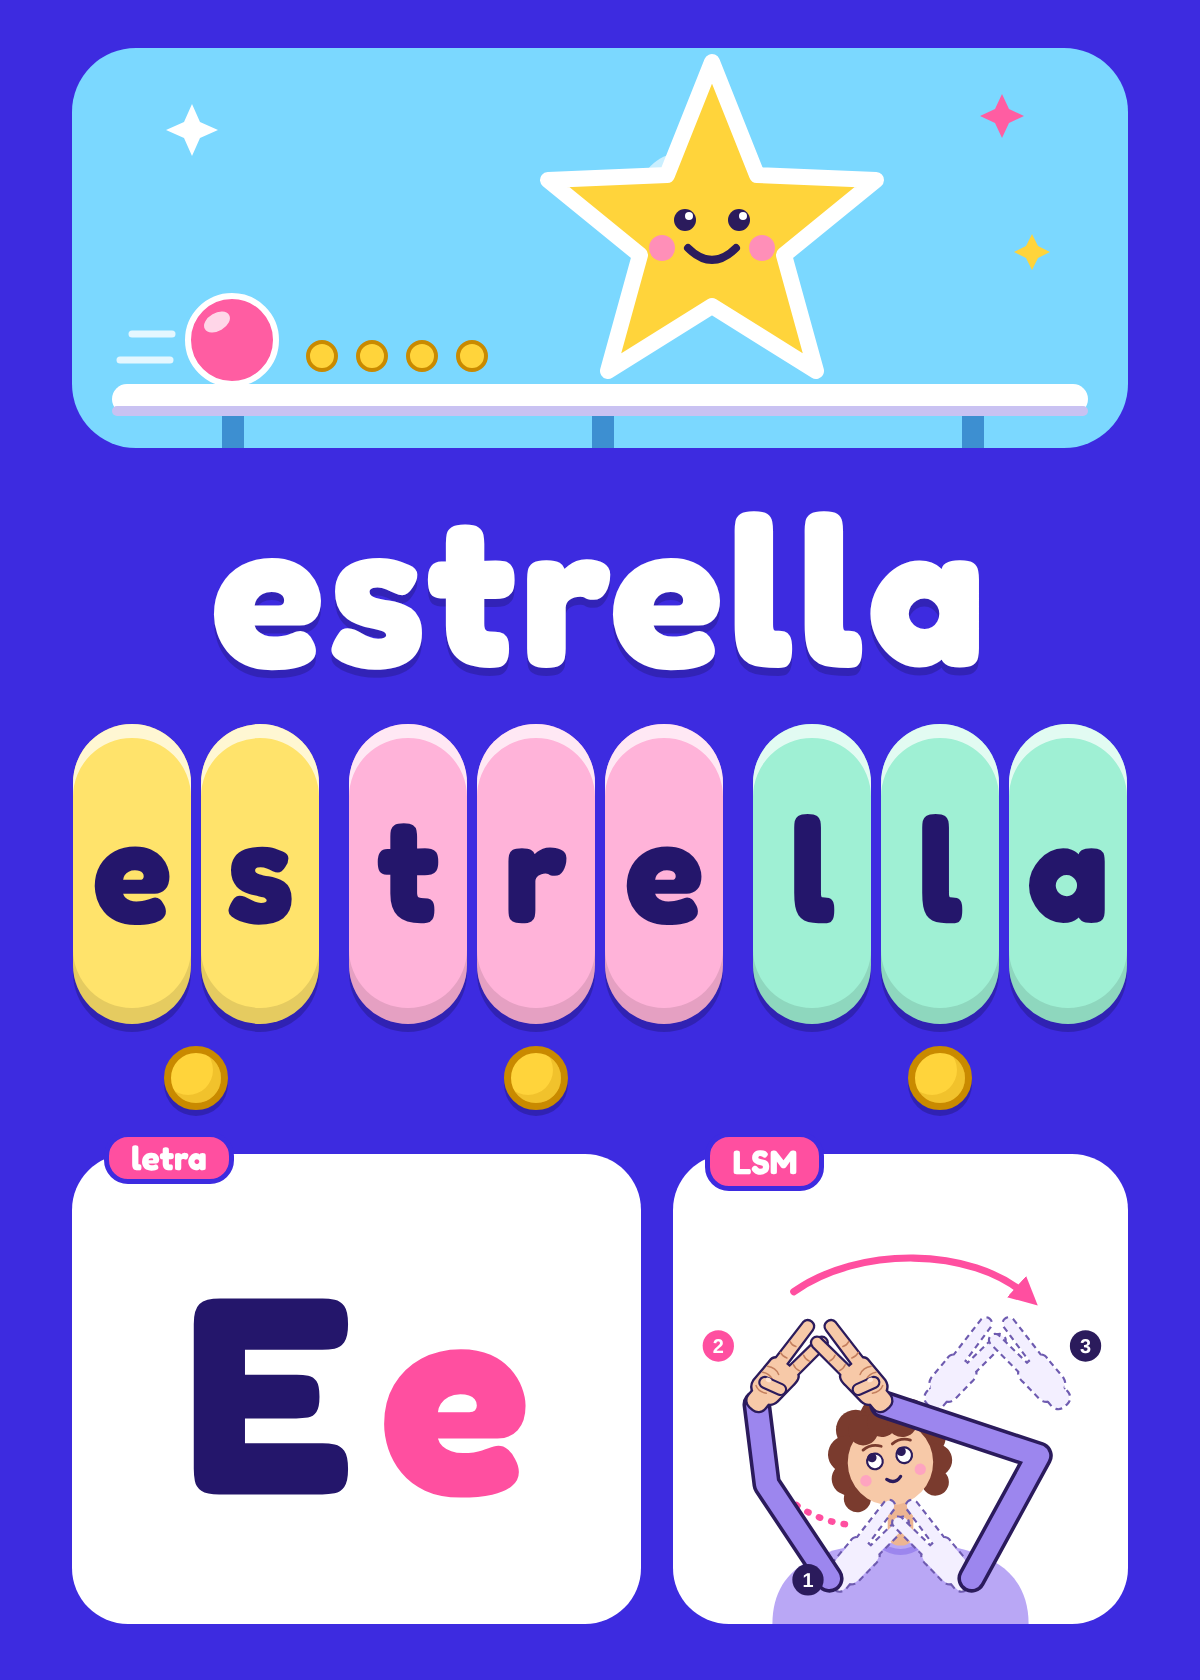
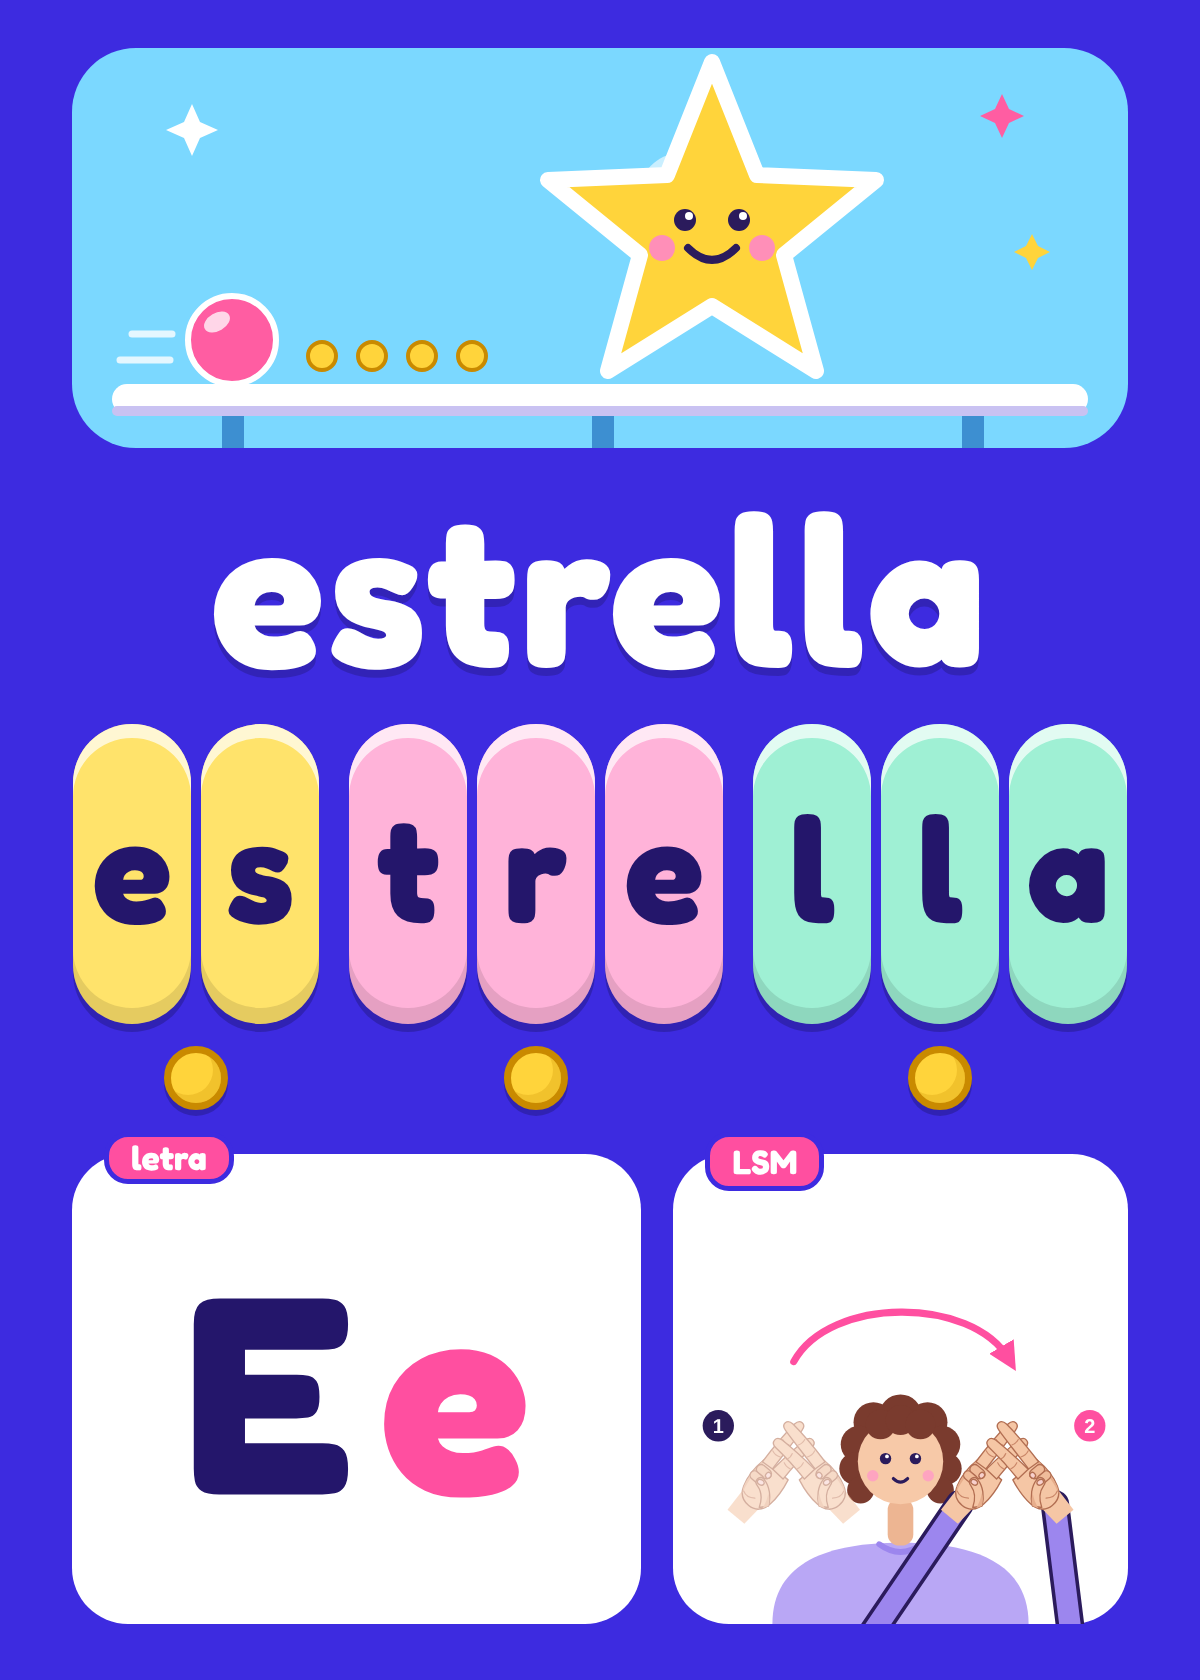
Seña estrella: manos realistas y recorrido de derecha a izquierda por encima de la cabeza
Claude-Session: https://claude.ai/code/session_015Bpbc8EAm3Wz5jihEE32WP

Changed region(s): [[0.5858, 0.7429, 0.925, 0.9905]]

diff --git a/CLAUDE.md b/CLAUDE.md
@@ -45,7 +45,7 @@ Este repositorio guarda tarjetas para que Valeria aprenda el **código escrito**
 6. **Fichas por sílaba**, tipo squishy: redondas, con brillo arriba y sombra abajo. Cada sílaba tiene su color y hay más espacio entre sílabas. **Debajo de cada sílaba va una moneda**: se toca o se aplaude una vez por sílaba al pronunciarla, como si se juntaran monedas en sus juegos. Separa las sílabas correctamente en español.
 7. **Panel "letra"**: la letra inicial en mayúscula y en minúscula, grande, para que reconozca la letra.
 8. **Panel "LSM"**: pequeño, abajo a la derecha. **No inventes la forma de una seña**: dibújala solo a partir de las fotos o dibujos que mande el usuario (normalmente una foto por movimiento). Si no hay referencia, deja `"sena"` fuera del JSON y aparece "seña pendiente".
-   - Dibújala en SVG como `senas/<palabra>.svg` (viewBox 600 × 540), con el estilo de `senas/estrella.svg`: persona tierna con cabello rizado, ropa lila, cara sonriente y manos color piel con contorno oscuro.
+   - Dibújala en SVG como `senas/<palabra>.svg` (viewBox 600 × 540), con el estilo de `senas/estrella.svg`: persona tierna con cabello rizado, ropa lila, cara sonriente y manos realistas (proporciones de mano real, contorno fino café, sombras suaves, pliegues de los dedos y uñas; ver `#mano` en `senas/estrella.svg`).
    - Si la seña tiene varios movimientos, usa una sola figura: la posición inicial con manos **punteadas** y el número **1**, la final con manos **sólidas** y el número **2**, y una **flecha rosa** con el recorrido. La mirada y la expresión van como en la foto (en "estrella" mira hacia arriba). Si el recorrido pasa por varios puntos, numera cada posición (1, 2, 3); solo la final va sólida y con brazos.
    - Cuida la configuración: qué dedos van extendidos o doblados, dónde va el pulgar, la altura de las manos (barbilla, frente, arriba de la cabeza) y si las manos se cruzan o se tocan. Muestra el dibujo al usuario y pregúntale si la configuración es correcta, porque él conoce LSM.
 9. **Nada de personajes con derechos de autor** (Pepa Pig, Roblox, logos de TikTok, etc.). Usa solo su *estilo*: personajes redondos y simpáticos, colores alegres, bloques o elementos de juego.
